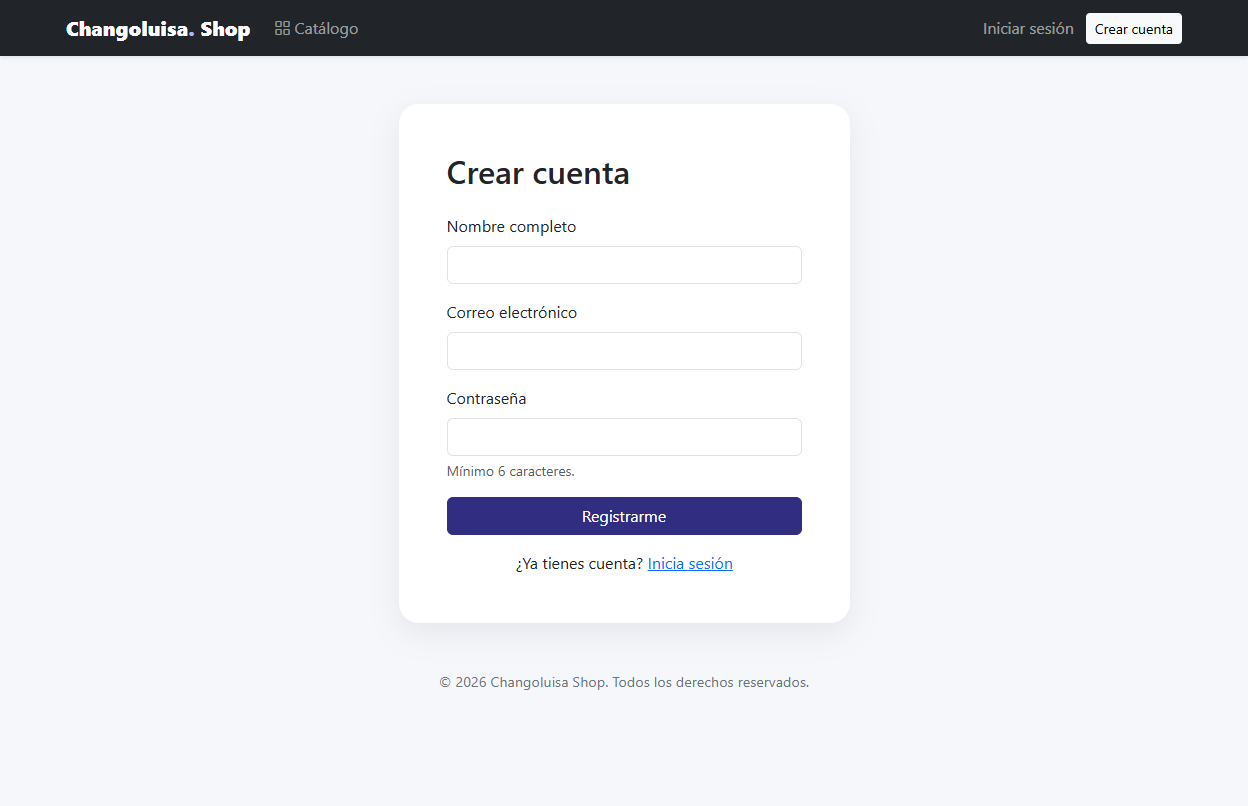
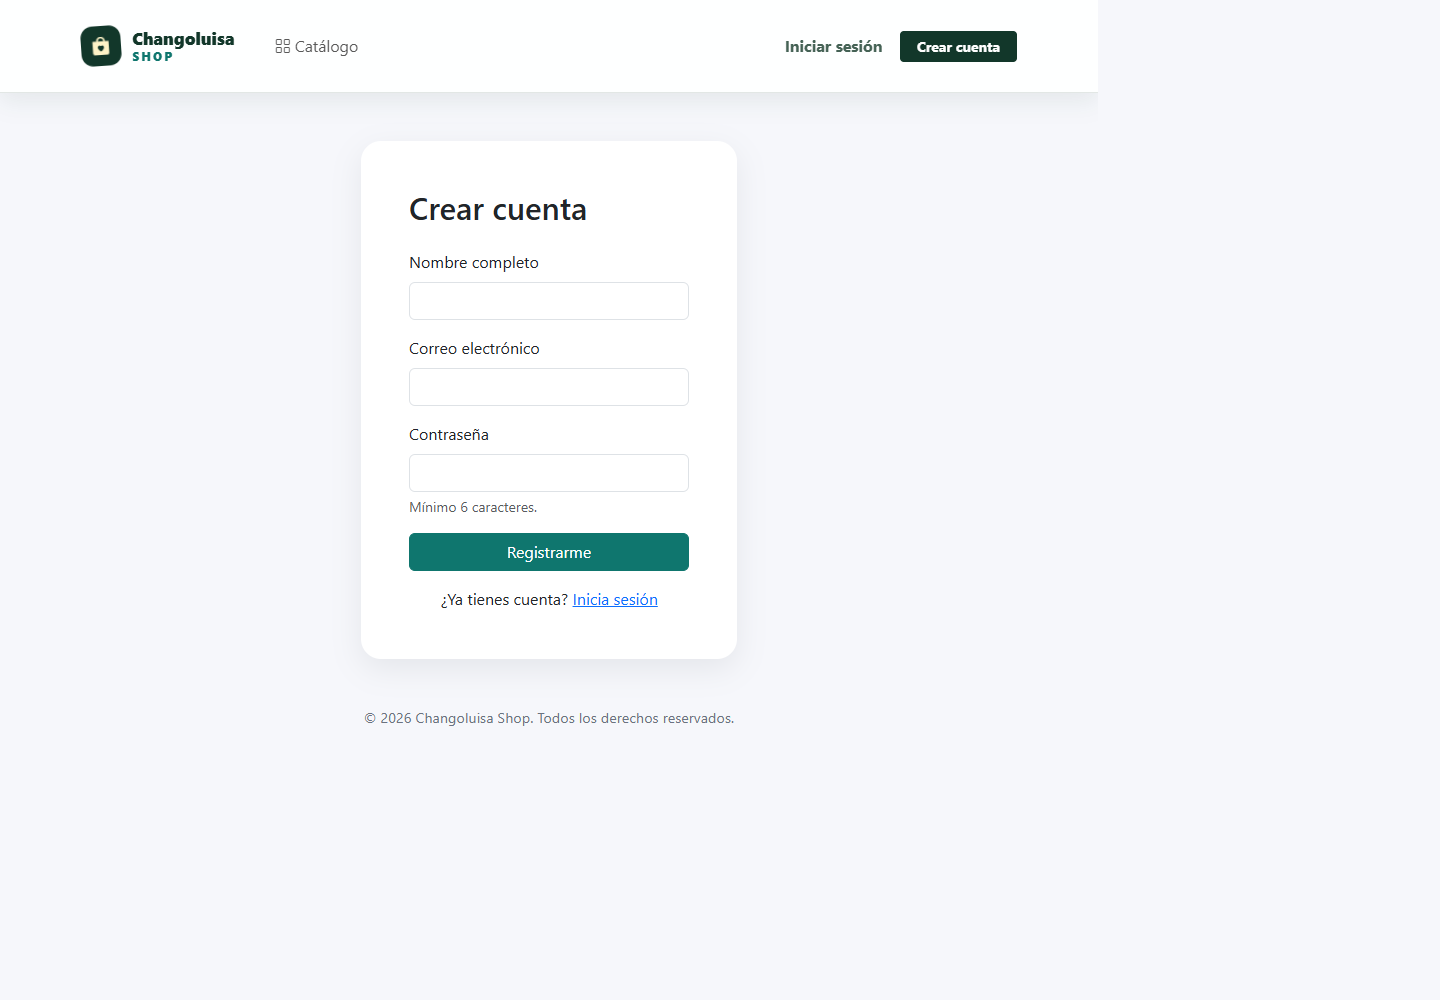
Redisenar header y actualizar evidencias
Actualiza el header global de Changoluisa Shop, documenta el cambio en README y regenera las capturas con la nueva navegación.

diff --git a/templates/base.html b/templates/base.html
@@ -9,11 +9,14 @@
     <link href="{{ url_for('static', filename='css/styles.css') }}" rel="stylesheet">
 </head>
 <body>
-<nav class="navbar navbar-expand-lg navbar-dark bg-dark sticky-top shadow-sm">
-    <div class="container">
-        <a class="navbar-brand" href="{{ url_for('inicio') }}">Changoluisa<span class="brand-dot">.</span> Shop</a>
-        <button class="navbar-toggler" type="button" data-bs-toggle="collapse" data-bs-target="#menuPrincipal" aria-controls="menuPrincipal" aria-expanded="false" aria-label="Abrir navegación">
-            <span class="navbar-toggler-icon"></span>
+<nav class="navbar navbar-expand-lg site-header sticky-top">
+    <div class="container header-inner">
+        <a class="navbar-brand brand-lockup" href="{{ url_for('inicio') }}">
+            <span class="brand-mark"><i class="bi bi-bag-heart-fill"></i></span>
+            <span class="brand-copy"><span class="brand-name">Changoluisa</span><span class="brand-word">Shop</span></span>
+        </a>
+        <button class="navbar-toggler header-toggler" type="button" data-bs-toggle="collapse" data-bs-target="#menuPrincipal" aria-controls="menuPrincipal" aria-expanded="false" aria-label="Abrir navegación">
+            <i class="bi bi-list"></i>
         </button>
         <div class="collapse navbar-collapse" id="menuPrincipal">
             <ul class="navbar-nav me-auto mb-2 mb-lg-0">
@@ -36,20 +39,20 @@
             <ul class="navbar-nav ms-auto align-items-lg-center gap-lg-1">
                 {% if session.get('usuario_id') %}
                 <li class="nav-item">
-                    <a class="nav-link position-relative" href="{{ url_for('ver_carrito') }}">
+                    <a class="nav-link header-link position-relative" href="{{ url_for('ver_carrito') }}">
                         <i class="bi bi-cart3 me-1"></i>Carrito
                         {% if cantidad_carrito %}<span class="badge rounded-pill text-bg-primary">{{ cantidad_carrito }}</span>{% endif %}
                     </a>
                 </li>
-                <li class="nav-item"><span class="nav-link text-light">{{ session.get('usuario_nombre') }} <span class="badge text-bg-secondary">{{ session.get('usuario_rol') }}</span></span></li>
+                <li class="nav-item"><span class="nav-link account-label"><i class="bi bi-person-circle me-1"></i>{{ session.get('usuario_nombre') }} <span class="badge account-badge">{{ session.get('usuario_rol') }}</span></span></li>
                 <li class="nav-item">
                     <form action="{{ url_for('logout') }}" method="post" class="d-inline">
-                        <button class="btn btn-sm btn-outline-light" type="submit">Cerrar sesión</button>
+                        <button class="btn btn-sm header-action" type="submit">Cerrar sesión</button>
                     </form>
                 </li>
                 {% else %}
-                <li class="nav-item"><a class="nav-link" href="{{ url_for('login') }}">Iniciar sesión</a></li>
-                <li class="nav-item"><a class="btn btn-sm btn-light mt-1 mt-lg-0" href="{{ url_for('registro') }}">Crear cuenta</a></li>
+                <li class="nav-item"><a class="nav-link header-link" href="{{ url_for('login') }}">Iniciar sesión</a></li>
+                <li class="nav-item"><a class="btn btn-sm header-cta mt-1 mt-lg-0" href="{{ url_for('registro') }}">Crear cuenta</a></li>
                 {% endif %}
             </ul>
         </div>

diff --git a/static/css/styles.css b/static/css/styles.css
@@ -1,9 +1,11 @@
 :root {
     --brand-900: #111827;
     --brand-800: #1f2937;
-    --brand-700: #312e81;
-    --brand-500: #6366f1;
-    --brand-100: #e0e7ff;
+    --brand-700: #0f766e;
+    --brand-500: #14b8a6;
+    --brand-100: #ccfbf1;
+    --header-ink: #12372a;
+    --header-accent: #f59e0b;
     --surface: #f6f7fb;
 }
 
@@ -12,13 +14,123 @@ body {
     color: var(--brand-900);
 }
 
-.navbar-brand {
+.site-header {
+    background: rgba(255, 255, 255, .94);
+    border-bottom: 1px solid rgba(18, 55, 42, .12);
+    box-shadow: 0 8px 24px rgba(18, 55, 42, .08);
+    backdrop-filter: blur(14px);
+}
+
+.header-inner {
+    min-height: 76px;
+}
+
+.brand-lockup {
+    align-items: center;
+    color: var(--header-ink);
+    display: inline-flex;
+    gap: .7rem;
+    margin-right: 2rem;
+}
+
+.brand-lockup:hover {
+    color: var(--brand-700);
+}
+
+.brand-mark {
+    align-items: center;
+    background: var(--header-ink);
+    border-radius: 12px;
+    color: #fef3c7;
+    display: inline-flex;
+    font-size: 1.15rem;
+    height: 40px;
+    justify-content: center;
+    transform: rotate(-4deg);
+    width: 40px;
+}
+
+.brand-copy {
+    display: flex;
+    flex-direction: column;
+    line-height: 1;
+}
+
+.brand-name {
+    font-size: 1.05rem;
+    font-weight: 850;
+    letter-spacing: .01em;
+}
+
+.brand-word {
+    color: var(--brand-700);
+    font-size: .75rem;
     font-weight: 800;
-    letter-spacing: .2px;
+    letter-spacing: .18em;
+    margin-top: .24rem;
+    text-transform: uppercase;
 }
 
 .brand-dot {
-    color: #a5b4fc;
+    color: var(--header-accent);
+}
+
+.header-link {
+    color: #456255;
+    font-weight: 650;
+    padding-left: .85rem !important;
+    padding-right: .85rem !important;
+}
+
+.header-link:hover,
+.header-link:focus {
+    color: var(--header-ink);
+}
+
+.header-cta {
+    background: var(--header-ink);
+    border-color: var(--header-ink);
+    color: white;
+    font-weight: 700;
+    padding-left: 1rem;
+    padding-right: 1rem;
+}
+
+.header-cta:hover,
+.header-cta:focus {
+    background: var(--brand-700);
+    border-color: var(--brand-700);
+    color: white;
+}
+
+.header-action {
+    border: 1px solid rgba(18, 55, 42, .22);
+    color: var(--header-ink);
+    font-weight: 650;
+}
+
+.header-action:hover,
+.header-action:focus {
+    background: var(--header-ink);
+    color: white;
+}
+
+.account-label {
+    color: var(--header-ink);
+    font-weight: 650;
+}
+
+.account-badge {
+    background: var(--brand-100);
+    color: var(--brand-700);
+}
+
+.header-toggler {
+    border: 1px solid rgba(18, 55, 42, .2);
+    color: var(--header-ink);
+    font-size: 1.35rem;
+    line-height: 1;
+    padding: .35rem .55rem;
 }
 
 .hero-panel {
@@ -103,4 +215,22 @@ body {
 .footer-note {
     color: #6b7280;
     font-size: .9rem;
+}
+
+@media (max-width: 991.98px) {
+    .header-inner {
+        min-height: 68px;
+    }
+
+    .navbar-collapse {
+        border-top: 1px solid rgba(18, 55, 42, .1);
+        margin-top: .7rem;
+        padding: .7rem 0;
+    }
+
+    .header-link,
+    .account-label {
+        padding-left: 0 !important;
+        padding-right: 0 !important;
+    }
 }

diff --git a/README.md b/README.md
@@ -13,6 +13,7 @@ Proyecto académico de una tienda online desarrollada con **Flask, PostgreSQL, S
 - Carrito de compras.
 - Subida de imágenes de productos.
 - Mensajes `flash()` y diseño responsive con Bootstrap.
+- Header renovado con identidad visual de Changoluisa Shop y navegación responsive.
 
 ## Instalación
 
@@ -49,7 +50,7 @@ http://127.0.0.1:5000
 
 ## Evidencias
 
-### Catálogo actualizado
+### Catálogo actualizado y header renovado
 
 ![Catálogo de productos](screenshots/01_catalogo.png)
 
